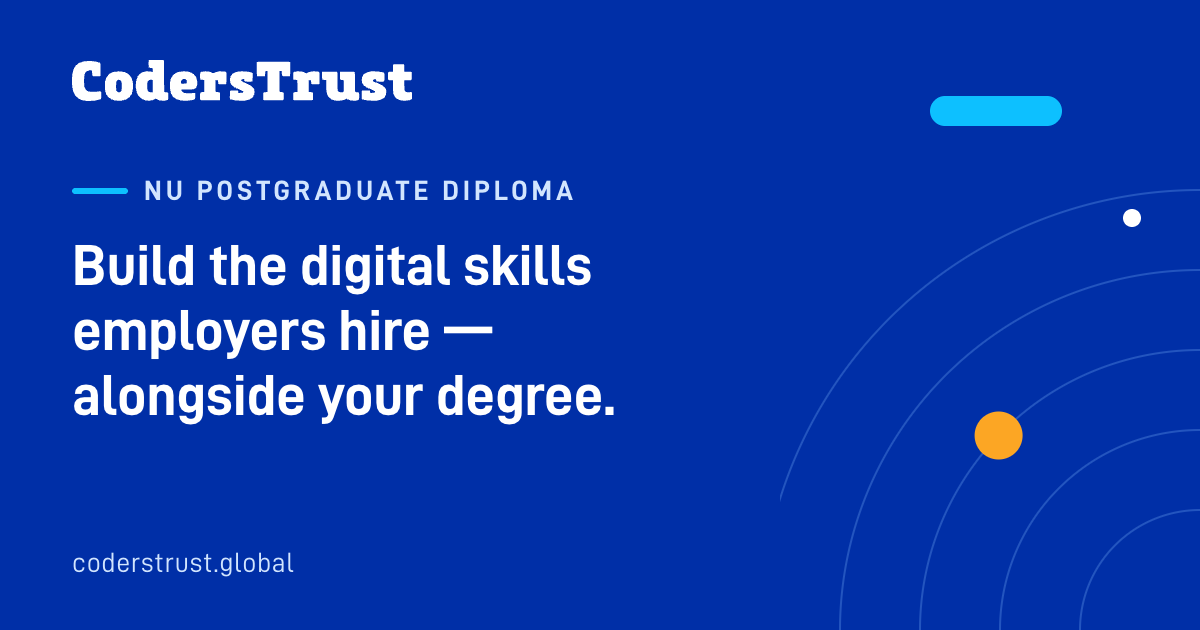
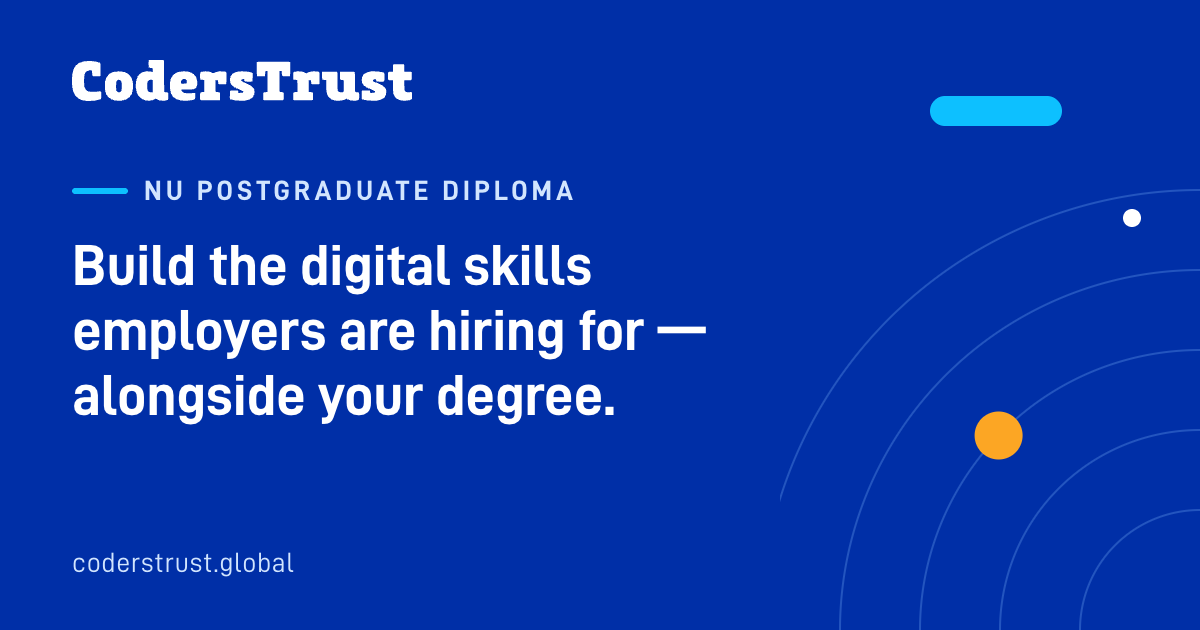
WP1t: review round-18 site changes (RC-05 Table 14 note, SC-03 enrollment-chart note, GV-10 "separately", PD-14 routing wording, IN-09 certification wording, SC-09 certification courses, PX-08 period note, AI headings, B2B survey lead-in label, vision qualifier, CMP certification cell, NU headline, 
- facts.ts: RC-05 footnote adds the report-text 83% vs Table 14 85% note; SC-03 footnote names the enrollment chart (13); GV-10 "separately, 10,000 teachers were trained..." (SCALE block and FAQ Q2 follow); PD-14 no longer says "routing rather than screening out" beside "reasons for non-selection are reported" (our-model and roadmap sentences follow); IN-09 "preparation for globally recognized certifications ... designed to lead to"; SC-09 "certification courses" (text and stat label); PX-08 footnote "The period is not stated in the published source."
- Employers and JobReady@Work: heading "AI is changing the skills your teams need." and non-predictive implications; survey proof statements carry the lead-in label "From CodersTrust's youth programs:" (CopyP and EvidenceList take an optional lead).
- Investors vision: "A long-term ambition, not a forecast." under the ID-05 vision.
- ComparisonBand (Home, investors, partner pages) and local-partners: "Certification exam preparation (exam terms set per program)".
- NU Postgraduate Diploma headline: "Build the digital skills employers are hiring for - alongside your degree." (HEADLINE, OG card text and alt, regenerated PNG).
- Governments briefing agenda: "your priority groups and locations" (NationWIDE keeps districts); check-facts [SESSION-AGENDA] gate and self-tests adapted.

Changed region(s): [[0.2775, 0.4825, 0.5858, 0.573]]

diff --git a/src/data/facts.ts b/src/data/facts.ts
@@ -118,13 +118,13 @@ const rows: [string, Fact['group'], Row][] = [
   // B. Reach & scale
   ['SC-01', 'scale', { text: `130,000+ youth trained since 2014`, stat: { value: '130,000+', numeric: 130000, decimals: 0, suffix: '+', label: 'youth trained since 2014' }, footnote: SC01_FN, sourceIds: ['IR26'] }],
   ['SC-02', 'scale', { text: `150,000+ enrollments since 2014 — 111,268 through direct training across 45 programs and 40,043 through CodersTrust courseware`, stat: { value: '150,000+', numeric: 150000, decimals: 0, suffix: '+', label: 'enrollments since 2014' }, footnote: `One person can enroll more than once. Courseware enrollments: the national Her Power program’s training goal (25,125) and UNDP FutureNation courses (14,918).`, sourceIds: ['IR26'] }],
-  ['SC-03', 'scale', { text: `Programs in 15 countries and territories across Asia, Africa, Europe and the Americas: Bangladesh since 2014, plus 14 international locations`, stat: { value: '15', numeric: 15, decimals: 0, label: 'countries and territories with CodersTrust programs, including Bangladesh' }, footnote: `Program locations: Bangladesh, Albania, Bhutan, Denmark, Honduras, India, Iraq, Jordan, Kenya, Kosovo, Malaysia, Poland, Somalia, Somaliland and Uganda. The New York office is not a program location. The 13 international programs account for about 970 of the 150,000+ enrollments.`, sourceIds: ['IR26', 'PROGREC'] }],
+  ['SC-03', 'scale', { text: `Programs in 15 countries and territories across Asia, Africa, Europe and the Americas: Bangladesh since 2014, plus 14 international locations`, stat: { value: '15', numeric: 15, decimals: 0, label: 'countries and territories with CodersTrust programs, including Bangladesh' }, footnote: `Program locations: Bangladesh, Albania, Bhutan, Denmark, Honduras, India, Iraq, Jordan, Kenya, Kosovo, Malaysia, Poland, Somalia, Somaliland and Uganda. The New York office is not a program location. The international programs in the report’s enrollment chart (13) account for about 970 of the 150,000+ enrollments.`, sourceIds: ['IR26', 'PROGREC'] }],
   ['SC-04', 'scale', { text: `1.5M+ National University learners being onboarded; CodersTrust is NU’s official training partner for digital career skills and credentials and delivers NU postgraduate diploma courses`, stat: { value: '1.5M+', numeric: 1.5, decimals: 1, suffix: 'M+', label: 'National University learners being onboarded' }, footnote: `Onboarding is under way; these learners are not counted as trained.`, sourceIds: ['IR26'] }],
   ['SC-05', 'scale', { text: `National University: the world’s second-largest university by enrollment — 3M+ students in 2,257 affiliated colleges`, stat: { value: '3M+', numeric: 3, decimals: 0, suffix: 'M+', label: 'students at National University, in 2,257 affiliated colleges' }, sourceIds: ['IR26'] }],
   ['SC-06', 'scale', { text: `31,200+ people covered by six government contracts`, stat: { value: '31,200+', numeric: 31200, decimals: 0, suffix: '+', label: 'people covered by six government contracts' }, footnote: `Coverage of six contracts’ training and curriculum scopes, including curriculum reach (Her Power) and staff training; not all trained directly by CodersTrust, and not deduplicated. 27,000+ people are covered by three ICT Division contracts and 4,200+ by three more.`, sourceIds: ['PROGREC'] }],
   ['SC-07', 'scale', { text: `65,000+ enrollments funded by NGOs and governments`, stat: { value: '65,000+', numeric: 65000, decimals: 0, suffix: '+', label: 'enrollments funded by NGOs and governments' }, sourceIds: ['IR26'] }],
   ['SC-08', 'scale', { text: `14,000+ youth trained on CodersTrust’s own funding and 10,000 teachers trained to teach online during COVID-19`, stat: { value: '14,000+', numeric: 14000, decimals: 0, suffix: '+', label: 'youth trained on CodersTrust’s own funding' }, sourceIds: ['IR26'] }],
-  ['SC-09', 'scale', { text: `150+ skill courses and certifications delivered; 150+ instructors and mentors`, stat: { value: '150+', numeric: 150, decimals: 0, suffix: '+', label: 'skill courses and certifications delivered' }, sourceIds: ['IR26'] }],
+  ['SC-09', 'scale', { text: `150+ skill courses and certification courses delivered; 150+ instructors and mentors`, stat: { value: '150+', numeric: 150, decimals: 0, suffix: '+', label: 'skill courses and certification courses delivered' }, sourceIds: ['IR26'] }],
   ['SC-10', 'scale', { text: `500+ industry certifications, digital-skills courses, university postgraduate programs and CPD courses mapped to 40+ high-demand digital roles across eight domains`, stat: { value: '500+', numeric: 500, decimals: 0, suffix: '+', label: 'certifications and courses mapped to 40+ digital roles' }, footnote: `This is the catalog scope, not a delivery count; not every track runs in every country. The 40+ counts each stack and cloud-vendor variant as a separate role title.`, sourceIds: ['PROGREC'] }],
   ['SC-11', 'scale', { text: `20+ NGO and government partners`, stat: { value: '20+', numeric: 20, decimals: 0, suffix: '+', label: 'NGO and government partners' }, sourceIds: ['IR26'] }],
   ['SC-12', 'scale', { text: `600K+ social media followers`, stat: { value: '600K+', numeric: 600, decimals: 0, suffix: 'K+', label: 'social media followers' }, sourceIds: ['IR26'] }],
@@ -148,7 +148,7 @@ const rows: [string, Fact['group'], Row][] = [
   ['RC-02', 'rct', { text: `In percentage points, employment rose +10.3 pp for everyone offered a place (+13.6 pp for attenders) on a control-group rate of 52.8%`, stat: { value: '+10.3 pp', numeric: 10.3, decimals: 1, prefix: '+', suffix: ' pp', label: 'percentage points more employment for women offered a place (randomized trial)' }, caveat: 'R', claim: `Randomized trial: employment gain in percentage points for women offered a place and women who attended`, footnote: `BIGD report, Table 4, employment row: +0.103 for women offered a place (significant at the 5% level) and +0.136 for women who attended (1% level), on a control-group rate of 0.528. Employment at follow-up: 52.8% in the control group and 63.1% for women offered a place (52.8% plus 10.3 percentage points).`, sourceIds: ['BIGD22'] }],
   ['RC-03', 'rct', { text: `For attenders, freelancing employment rose 184%, freelance hours 168% and freelance income 169% over the control group’s levels (about 2.8×, 2.7× and 2.7×); overall hours worked rose 42%. For everyone offered a place, freelance income was 2.3× the control group’s`, stat: { value: '2.8×', numeric: 2.8, decimals: 1, suffix: '×', label: 'the control group’s freelancing employment, for women who attended' }, caveat: 'R', claim: `Randomized trial: freelancing employment, hours and income of women who attended, and freelance income of women offered a place, compared with the control group`, footnote: `BIGD report, Table 5, freelancing rows, women who attended (all at the 1% level): employment 0.219 on a control mean of 0.119 (+184%); hours per day 0.961 on 0.571 (+168%); monthly income BDT 1,318 on BDT 779 (+169%). Women offered a place: freelance income BDT 995 on BDT 779 (+128%), about 2.3× the control group’s. Overall hours worked (Table 4): +1.282 on 3.048 (+42%).`, sourceIds: ['BIGD22'] }],
   ['RC-04', 'rct', { text: `In absolute terms: about +$27 a month for everyone offered a place (+$36 for attenders: BDT 3,118 at BDT 86 = $1) on a control-group mean of about $66 (Nov–Dec 2021)`, stat: { value: '+$27', numeric: 27, decimals: 0, prefix: '+$', label: 'a month for women offered a place, on a control mean of about $66' }, caveat: 'R', claim: `Randomized trial: monthly income in dollars for women offered a place and women who attended`, footnote: `BIGD report, Table 4, monthly income row: effects of +BDT 2,354 for women offered a place (about +$27) and +BDT 3,118 for women who attended (about +$36), on a control-group mean of BDT 5,715 (about $66); converted at BDT 86 = $1 (Nov–Dec 2021).`, sourceIds: ['BIGD22'] }],
-  ['RC-05', 'rct', { text: `Household effects (attenders vs control mean): food spending +48% and non-food spending +41% (both significant at the 1% level), share with savings +41% (5% level), fewer took a loan (10% level), and “never felt stressed in the last month” +85% (1% level; n = 373)`, caveat: 'R', claim: `Randomized trial: household spending, savings, loans and stress among women who attended`, base: `n = 599 for spending, savings and loans (Tables 8, 9 and 10); n = 373 for the stress item (Table 14)`, footnote: `BIGD report: Table 8 (food and non-food spending, 1% level), Table 10 (has savings, 5% level), Table 9 (took a loan in the past year, 10% level) and Table 14 (never felt stressed in the last month, 1% level). In Table 14 the share who never felt stressed is 14.3% in the control group and about 26.5% among women who attended (control mean 0.143 plus 0.122).`, sourceIds: ['BIGD22'] }],
+  ['RC-05', 'rct', { text: `Household effects (attenders vs control mean): food spending +48% and non-food spending +41% (both significant at the 1% level), share with savings +41% (5% level), fewer took a loan (10% level), and “never felt stressed in the last month” +85% (1% level; n = 373)`, caveat: 'R', claim: `Randomized trial: household spending, savings, loans and stress among women who attended`, base: `n = 599 for spending, savings and loans (Tables 8, 9 and 10); n = 373 for the stress item (Table 14)`, footnote: `BIGD report: Table 8 (food and non-food spending, 1% level), Table 10 (has savings, 5% level), Table 9 (took a loan in the past year, 10% level) and Table 14 (never felt stressed in the last month, 1% level). In Table 14 the share who never felt stressed is 14.3% in the control group and about 26.5% among women who attended (control mean 0.143 plus 0.122). The report’s text gives 83%; the Table 14 values give 85%.`, sourceIds: ['BIGD22'] }],
   ['RC-06', 'rct', { text: `A review of nine randomized trials of vocational training by World Bank economist David McKenzie (2017) found only three with significant employment impacts`, caveat: 'X', sourceIds: ['MCKENZIE17'] }],
   ['RC-07', 'rct', { text: `Trial design: 833 women at baseline (425 treatment, 408 control); 599 surveyed at follow-up (28% attrition); 200 hours over 4 months + 3 months of mentoring; significance: attender income, employment and hours at 1%; offered-place employment at 5%; savings at 5% and loans at 10%`, caveat: 'R', footnote: `BIGD report: significance levels from Table 4 (attender income, employment and hours at the 1% level; employment for women offered a place at the 5% level), Table 10 (savings, 5% level) and Table 9 (loans, 10% level).`, sourceIds: ['BIGD22'] }],
   ['RC-08', 'rct', { text: `Freelancing by classes attended (descriptive, not causal): 12% of the control group freelanced, vs 16% of women who attended 1–10 classes, 21% (11–24 classes) and 42% (25+ classes)`, caveat: 'R', sourceIds: ['BIGD22'] }],
@@ -177,7 +177,7 @@ const rows: [string, Fact['group'], Row][] = [
   ['GV-07', 'government', { text: `Third-gender inclusion: program with the Bangladesh Computer Council (BCC) and Bandhu Welfare Society to provide digital-skills training to 5,000 third-gender people`, sourceIds: ['IR26'] }],
   ['GV-08', 'government', { text: `SuperKids: agreements with DoICT (primary-school STEM and robotics; target reach 20M+ students through 9,000+ digital labs) and NCTB (competency-based experiential learning for 20M+ students)`, footnote: `These are agreements and targets, not delivered results.`, sourceIds: ['PROGREC'] }],
   ['GV-09', 'government', { text: `9,000+ government digital labs in Bangladesh that can serve as blended-learning centers, with seats confirmed per program`, stat: { value: '9,000+', numeric: 9000, decimals: 0, suffix: '+', label: 'government digital labs that can serve as blended-learning centers, with seats confirmed per program' }, sourceIds: ['PROGREC'] }],
-  ['GV-10', 'government', { text: `Government contracts with training scopes ranging from 120+ professionals to 3,120+ digital-lab staff; curriculum for a national program to train 25,125 women, with 2,500 women trained directly; 10,000 teachers trained to teach online during COVID-19`, footnote: `Contract training scopes are scopes of work (some contracts are still in progress), not delivered scale.`, sourceIds: ['IR26'] }],
+  ['GV-10', 'government', { text: `Government contracts with training scopes ranging from 120+ professionals to 3,120+ digital-lab staff; curriculum for a national program to train 25,125 women, with 2,500 women trained directly; separately, 10,000 teachers were trained to teach online during COVID-19`, footnote: `Contract training scopes are scopes of work (some contracts are still in progress), not delivered scale.`, sourceIds: ['IR26'] }],
   // G. Partnerships & recognition
   ['PA-01', 'partners', { text: `Development and NGO partners include UNDP, the World Bank Group, the World Food Programme, the Rockefeller Foundation, DANIDA, BRAC, Porticus, CARE, iDE, PKSF and Save the Children`, sourceIds: ['PROGREC'] }],
   ['PA-02', 'partners', { text: `Government partners include Bangladesh’s ICT Division, DoICT, Bangladesh Hi-Tech Park Authority, NSDA and BCC`, sourceIds: ['PROGREC'] }],
@@ -207,7 +207,7 @@ const rows: [string, Fact['group'], Row][] = [
   ['PD-12', 'design', { text: `Safeguarding and data, specified per program: each program design specifies accessible selection, consent-based data collection, protected records, grievance handling, harassment and fraud response and referral pathways, and arrangements for participants under 18 (guardian consent and supervision); these are agreed and documented before enrollment; funders receive privacy-appropriate data`, sourceIds: ['PROGREC'] }],
   ['PD-13', 'design', { text: `Due diligence in co-design: the contracting entity, legal status and due-diligence documentation (legal entity and status, audited accounts, safeguarding, anti-fraud, data-protection and sanctions-screening policies) are confirmed with the funder during co-design`, sourceIds: ['PROGREC'] }],
   ['PD-19', 'design', { text: `Work-entry plan per track: before enrollment, each track’s demand and work-entry plan is approved — target work, employer and client channels, platform and payment access`, sourceIds: ['PROGREC'] }],
-  ['PD-14', 'design', { text: `Accessible readiness assessment: tests and an interview route each applicant to a career track or a foundation track — routing rather than screening out; selection uses a customized psychometric analysis, a written test and an interview; reasons for non-selection are reported`, sourceIds: ['PROGREC'] }],
+  ['PD-14', 'design', { text: `Accessible readiness assessment: tests and an interview route applicants to a career track or a foundation track; selection uses a customized psychometric analysis, a written test and an interview; a small number may not be selected, and the reasons are reported`, sourceIds: ['PROGREC'] }],
   ['PD-15', 'design', { text: `Placement support components: assessment-based career advising, CV writing, job-application and interview preparation, industry internships and apprenticeships, job fairs, employer matching and freelance-marketplace onboarding`, sourceIds: ['PROGREC'] }],
   ['PD-16', 'design', { text: `Quality assurance: common practical-assessment rubrics, sampled moderation of portfolios and assessments, trainer observation and remediation before the next cohort; completion, competency and external-exam results reported separately`, sourceIds: ['PROGREC'] }],
   ['PD-17', 'design', { text: `Foundation tracks: learners with limited computer or English skills get extra foundation hours and facilitators (scoped in co-design), and their outcomes are reported by track`, sourceIds: ['PROGREC'] }],
@@ -220,7 +220,7 @@ const rows: [string, Fact['group'], Row][] = [
   ['IN-05', 'initiatives', { text: `Ambition: 3M+ learners and professionals on JobReady by FY32 (company projection; FY32 = CodersTrust’s fiscal year ending 2032)`, stat: { value: '3M+', numeric: 3, decimals: 0, suffix: 'M+', label: 'learners and professionals on JobReady by FY32 (fiscal year ending 2032; company projection)' }, caveat: 'E', caveatText: `CodersTrust projection (company plan) to FY32, the fiscal year ending in 2032; not a delivered result, an official statistic or a commitment.`, claim: `Ambition: learners and professionals on JobReady by FY32`, sourceIds: ['PROJ26'] }],
   ['IN-06', 'initiatives', { text: `TalentLEAP: CodersTrust’s competency-based talent development model — individual skill units within graduated competency models (Dreyfus model of skill acquisition), aligned with industry expectations; levels Competent → Proficient → Expert (Digital Marketing career path example); the basis for AI-driven personalized and adaptive learning (roadmap)`, sourceIds: ['PROGREC'] }],
   ['IN-08', 'initiatives', { text: `TalentLEAP example — Digital Marketing career path: Level 1, “Introduction to Digital Marketing with Google and Meta Certifications”, includes 3 months of mentorship by an experienced professional, 3 months of membership of a digital-marketing expertise community and bonus mini-courses in essential business and leadership skills; levels progress Competent → Proficient → Expert`, sourceIds: ['PROGREC'] }],
-  ['IN-09', 'initiatives', { text: `JobReady@Campus: industry-oriented skills training in parallel with academic studies — on-campus labs used as blended-learning centers, faculty members as coordinators, globally accepted certifications plus professional internships, leading to freelance work and local, remote and overseas jobs`, sourceIds: ['PROGREC'] }],
+  ['IN-09', 'initiatives', { text: `JobReady@Campus: industry-oriented skills training in parallel with academic studies — on-campus labs used as blended-learning centers, faculty members as coordinators, preparation for globally recognized certifications plus professional internships, designed to lead to freelance work and local, remote and overseas jobs`, sourceIds: ['PROGREC'] }],
   ['IN-10', 'initiatives', { text: `JobReady@Work: corporate training custom-developed for each organization — needs assessment → customized solution → comprehensive curriculum → interactive workshops → progress evaluation → post-training support → measurable outcomes; soft-skills and hard-skills tracks`, sourceIds: ['PROGREC'] }],
   // J. Problem & context statistics
   ['PX-01', 'context', { text: `About 62 million young people aged 15–24 with higher-secondary education or more (HSC+) are not in employment, education or training across South Asia, MENA and Sub-Saharan Africa`, stat: { value: '62 million', numeric: 62, decimals: 0, suffix: ' million', label: 'educated young people aged 15–24 not in work or training across South Asia, MENA and Sub-Saharan Africa' }, caveat: 'E', footnote: `Estimated as 35% of the 177 million young people not in employment, education or training in South Asia, the Middle East and North Africa (MENA) and Sub-Saharan Africa (range 61–78 million). HSC+ means the Higher Secondary Certificate or above.`, sourceIds: ['PX01CALC'] }],
@@ -229,7 +229,7 @@ const rows: [string, Fact['group'], Row][] = [
   ['PX-05', 'context', { text: `Globally, 72% of employers report difficulty finding the talent they need; AI skills are now the hardest to find`, stat: { value: '72%', numeric: 72, decimals: 0, suffix: '%', label: 'of employers globally report difficulty finding talent' }, caveat: 'X', claim: `Employers globally who report difficulty finding talent`, sourceIds: ['MANPOWER26'] }],
   ['PX-06', 'context', { text: `Within eight months of ChatGPT’s release, postings for automation-prone writing and coding jobs on a major freelancing platform fell 21% relative to manual-intensive jobs, and image-creation postings fell 17% within about a year of image-generating AI`, caveat: 'X', sourceIds: ['DHZ25'] }],
   ['PX-07', 'context', { text: `Globally, AI and information processing are expected to create 11M jobs and displace 9M by 2030; across all trends 170M created vs 92M displaced`, caveat: 'X', sourceIds: ['WEF25'] }],
-  ['PX-08', 'context', { text: `Globally, jobs requiring AI skills grew 69% vs 9% for all jobs, with a 62% wage premium`, caveat: 'X', sourceIds: ['PWC26'] }],
+  ['PX-08', 'context', { text: `Globally, jobs requiring AI skills grew 69% vs 9% for all jobs, with a 62% wage premium`, caveat: 'X', footnote: `The period is not stated in the published source.`, sourceIds: ['PWC26'] }],
   ['PX-09', 'context', { text: `154M–435M people do online gig work worldwide; postings on the largest platform grew 130% in Sub-Saharan Africa (2016–2020) vs 14% in North America`, caveat: 'X', sourceIds: ['WB23'] }],
   ['PX-10', 'context', { text: `In 2025, 257 million young people worldwide were not in employment, education or training; the global unemployment rate among people aged 15–24 was 12.4%, about 3.4 times the adult rate`, stat: { value: '257M', numeric: 257, decimals: 0, suffix: 'M', label: 'young people worldwide not in employment, education or training (2025)' }, caveat: 'X', sourceIds: ['ILO26'] }],
   ['PX-11', 'context', { text: `Bangladesh’s 19 coastal districts hold 44.8M people (28% of the population); net out-migration of 20–24-year-olds reached 64.9% in Jhalokathi (census 2001–2011); Cyclone Amphan (2020) displaced 2.5M people`, caveat: 'X', sourceIds: ['BBSCENSUS22', 'HOSSAIN22', 'IDMC25'] }],

diff --git a/src/data/faqs.ts b/src/data/faqs.ts
@@ -19,7 +19,7 @@ export interface Faq {
 // Objection bank (planning/04 §5, Q1–Q14): answers and evidence IDs are the authoritative copy; first sentence = BLUF.
 export const faqs: Faq[] = [
   { id: 'Q1', q: `Will this work in our country?`, a: `CodersTrust has run programs since 2014 in 15 countries and territories, most of the international ones between 2014 and 2018; the outcome evidence for today’s model comes from Bangladesh and the Kosovo pilot. Each country version is localized with local partners, tracks and certifications. The course menu is set from local employer demand — typically digital marketing, graphic design, video editing, web development, digital accounting, Python programming and data analysis.`, evidence: ['SC-03', 'IN-02', 'PD-10'], audiences: ['development-partners', 'governments', 'universities', 'employers', 'home', 'all'] },
-  { id: 'Q2', q: `Can you deliver at national scale?`, a: `We scale in phases, starting from what we have done: government contracts with training scopes ranging from 120+ professionals to 3,120+ digital-lab staff, the curriculum for a national program to train 25,125 women (with 2,500 women trained directly), and 10,000 teachers trained to teach online during COVID-19. Larger programs run hub-and-spoke — up to 10 cohorts in parallel, certified local facilitators and blended delivery in existing labs and colleges; in Bangladesh, 9,000+ government digital labs can serve as blended-learning centers, with seats confirmed per program. A 100,000+ national program is a design option we plan phase by phase; we have not yet delivered one at that size.`, evidence: ['GV-10', 'GV-01', 'SC-08', 'PD-06', 'GV-09', 'PD-05'], audiences: ['development-partners', 'governments', 'foundations', 'investors', 'home', 'all'] },
+  { id: 'Q2', q: `Can you deliver at national scale?`, a: `We scale in phases, starting from what we have done: government contracts with training scopes ranging from 120+ professionals to 3,120+ digital-lab staff, and the curriculum for a national program to train 25,125 women (with 2,500 women trained directly); separately, 10,000 teachers were trained to teach online during COVID-19. Larger programs run hub-and-spoke — up to 10 cohorts in parallel, certified local facilitators and blended delivery in existing labs and colleges; in Bangladesh, 9,000+ government digital labs can serve as blended-learning centers, with seats confirmed per program. A 100,000+ national program is a design option we plan phase by phase; we have not yet delivered one at that size.`, evidence: ['GV-10', 'GV-01', 'SC-08', 'PD-06', 'GV-09', 'PD-05'], audiences: ['development-partners', 'governments', 'foundations', 'investors', 'home', 'all'] },
   { id: 'Q3', q: `How do you prove outcomes?`, a: `Baseline at enrollment, tracer surveys at 3, 6 and 12 months, and documentary evidence of earnings; independent evaluation is welcome. Evidence includes payslips and offer letters for jobs and platform logs and bank receipts for freelancers, and funders receive monthly reports on enrollment, completion, certification, placements and first earnings.`, evidence: ['PD-09', 'PD-08', 'RC-01'], cite: [], audiences: ['development-partners', 'foundations', 'universities', 'home', 'all'] },
   { id: 'Q4', q: `Is there independent evidence?`, a: `Yes — a randomized controlled trial by BIGD (BRAC University) found that CodersTrust’s WSDFM training raised women’s monthly income by 41% and employment by 20% for everyone offered a place, and by 54% and 26% for women who attended. The trial surveyed 599 women at follow-up (report published May 2022); for context, a review of nine randomized trials of vocational training by World Bank economist David McKenzie (2017) found only three with significant employment impacts.`, evidence: ['RC-01', 'RC-07', 'RC-06'], cite: ['RC-01', 'RC-06'], audiences: ['development-partners', 'foundations', 'investors', 'all'] },
   { id: 'Q5', q: `Won’t AI eliminate these jobs?`, a: `AI is removing some entry-level tasks, but the World Economic Forum expects AI and information processing to create 11 million jobs and displace 9 million worldwide by 2030 — so we choose tracks from current employer demand, and every track uses an AI-ready curriculum. Within eight months of ChatGPT’s release, postings for automation-prone writing and coding work on a major freelancing platform fell 21% relative to manual-intensive work, while globally, jobs requiring AI skills grew 69% versus 9% for all jobs.`, evidence: ['PX-07', 'PX-06', 'PX-08', 'PD-02', 'PD-10'], cite: ['PX-07', 'PX-06', 'PX-08'], audiences: ['development-partners', 'investors', 'employers', 'home', 'all'] },

diff --git a/src/data/copy.ts b/src/data/copy.ts
@@ -44,7 +44,7 @@ export const HEADLINE: Record<Audience, string> = {
   employers: 'Upskill your teams for AI — and hire job-ready digital talent.',
   investors: 'Invest in the infrastructure of emerging-market work.',
   localPartners: 'Deliver digital-skills programs that lead to paid work — in your community.',
-  nuPgd: 'Build the digital skills employers hire — alongside your degree.',
+  nuPgd: 'Build the digital skills employers are hiring for — alongside your degree.',
 };
 
 /** C5 opens with empathy for the reader's struggling moment, then ORIGIN, authority and the method signal. */
@@ -250,7 +250,7 @@ function trainedReach(): CopyBlock {
 export const TRAINED_REACH: CopyBlock = trainedReach();
 
 export const SCALE: CopyBlock = {
-  text: 'We scale in phases, starting from what we have done: government contracts with training scopes ranging from 120+ professionals to 3,120+ digital-lab staff, the curriculum for a national program to train 25,125 women (with 2,500 women trained directly), and 10,000 teachers trained to teach online during COVID-19. Larger programs run hub-and-spoke — up to 10 cohorts in parallel, certified local facilitators and blended delivery in existing labs and colleges.',
+  text: 'We scale in phases, starting from what we have done: government contracts with training scopes ranging from 120+ professionals to 3,120+ digital-lab staff, and the curriculum for a national program to train 25,125 women (with 2,500 women trained directly); separately, 10,000 teachers were trained to teach online during COVID-19. Larger programs run hub-and-spoke — up to 10 cohorts in parallel, certified local facilitators and blended delivery in existing labs and colleges.',
   facts: ['GV-10', 'GV-01', 'SC-08', 'PD-06'],
 };
 
@@ -329,16 +329,19 @@ export const SESSION_AGENDA_LEAD_BRIEFING = 'What the briefing covers:';
 /** The first item differs by kind (round 12, Mi1: "districts" does not fit the international pages). */
 export const SESSION_AGENDA_FIRST_ITEM = 'your country, priority groups and locations';
 export const SESSION_AGENDA_FIRST_ITEM_BRIEFING = 'your priority groups and districts';
+/** The governments page serves ministries in any country, so its briefing names "locations"; "districts" stays on NationWIDE (Bangladesh's national program). */
+export const SESSION_AGENDA_FIRST_ITEM_GOVERNMENTS = 'your priority groups and locations';
 /** The second and third items are shared. */
 export const SESSION_AGENDA_COMMON_ITEMS = ['employer demand and certification tracks', 'an indicative budget, the pilot scorecard and the tracer timeline'] as const;
 export const SESSION_AGENDA_FACTS = ['PD-02'];
 /**
  * "What the discovery session covers: your country, priority groups and locations; employer demand and certification tracks; an indicative budget, the pilot scorecard and the tracer timeline."
- * or, for the briefing: "What the briefing covers: your priority groups and districts; employer demand and certification tracks; …".
+ * or, for the NationWIDE briefing: "What the briefing covers: your priority groups and districts; employer demand and certification tracks; …",
+ * or, for the governments briefing: "What the briefing covers: your priority groups and locations; employer demand and certification tracks; …".
  */
-export const sessionAgendaText = (kind: 'discovery' | 'briefing' = 'discovery'): string => {
-  const lead = kind === 'briefing' ? SESSION_AGENDA_LEAD_BRIEFING : SESSION_AGENDA_LEAD;
-  const first = kind === 'briefing' ? SESSION_AGENDA_FIRST_ITEM_BRIEFING : SESSION_AGENDA_FIRST_ITEM;
+export const sessionAgendaText = (kind: 'discovery' | 'briefing' | 'governments' = 'discovery'): string => {
+  const lead = kind === 'discovery' ? SESSION_AGENDA_LEAD : SESSION_AGENDA_LEAD_BRIEFING;
+  const first = kind === 'governments' ? SESSION_AGENDA_FIRST_ITEM_GOVERNMENTS : kind === 'briefing' ? SESSION_AGENDA_FIRST_ITEM_BRIEFING : SESSION_AGENDA_FIRST_ITEM;
   return `${lead} ${[first, ...SESSION_AGENDA_COMMON_ITEMS].join('; ')}.`;
 };
 

diff --git a/src/lib/og.ts b/src/lib/og.ts
@@ -10,7 +10,7 @@ export const DEFAULT_OG: OgCard = { src: '/og/default.png', alt: 'CodersTrust: L
 
 /** Path prefix -> section card, longest prefix first. */
 const SECTION_CARDS: { prefix: string; card: OgCard }[] = [
-  { prefix: '/nu-postgraduate-diploma/', card: { src: '/og/nu-postgraduate-diploma.png', alt: 'CodersTrust: NU Postgraduate Diploma. Build the digital skills employers hire — alongside your degree.' } },
+  { prefix: '/nu-postgraduate-diploma/', card: { src: '/og/nu-postgraduate-diploma.png', alt: 'CodersTrust: NU Postgraduate Diploma. Build the digital skills employers are hiring for — alongside your degree.' } },
   { prefix: '/partner-with-us/', card: { src: '/og/partner-with-us.png', alt: 'CodersTrust: Partner with us. Co-design a youth-employment program with CodersTrust.' } },
   { prefix: '/investors/', card: { src: '/og/investors.png', alt: 'CodersTrust: Investors. Invest in the infrastructure of emerging-market work.' } },
   { prefix: '/our-model/', card: { src: '/og/our-model.png', alt: 'CodersTrust: Our model. How the CodersTrust model works.' } },

diff --git a/src/components/pages/programs/meta.ts b/src/components/pages/programs/meta.ts
@@ -20,7 +20,7 @@ export const ROADMAP_PHASES = [
  * LAST_UPDATED is the date of the first publication of the program pages.
  * A page that changes gets its own entry in PAGE_UPDATED (2026-10-09: the programs index, YouthWIDE, JobReady@Campus, JobReady@Work, NationWIDE;
  * 2026-10-10: those five again, SuperKids and the NU Postgraduate Diploma index, after the round-16 wording changes, and the NU course pages
- * and the program pages once more after the round-17 heading changes).
+ * and the program pages once more after the round-17 heading changes; the program pages and the NU pages again after the round-18 wording changes, same date).
  */
 export const LAST_UPDATED = '2026-10-08';
 export const PAGE_UPDATED = {
